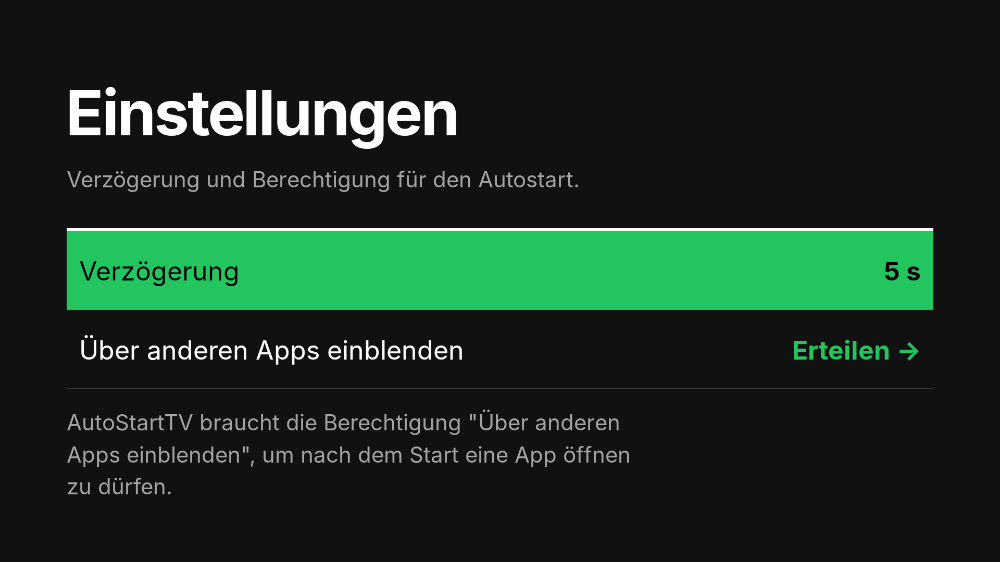
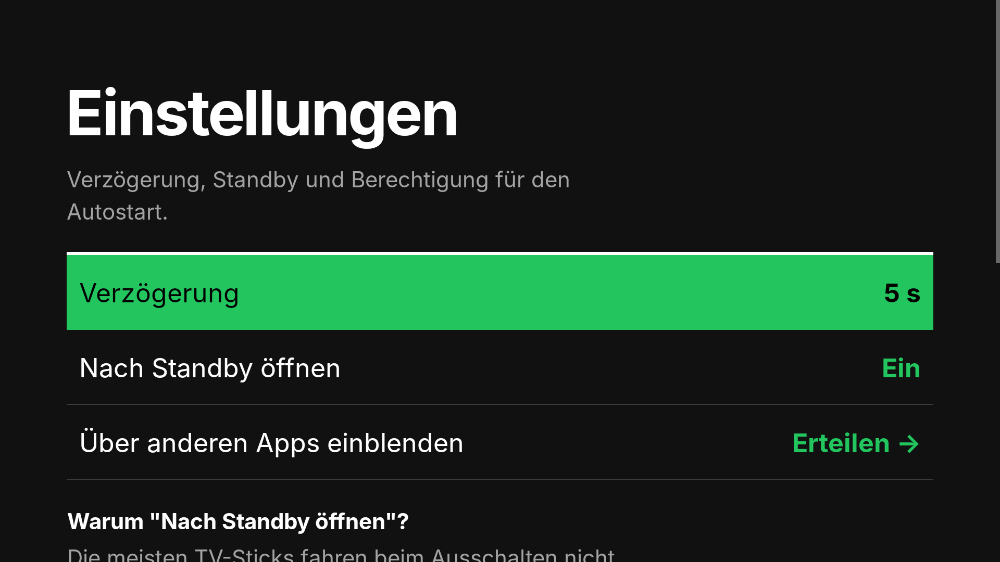
Open the app after standby, explain why in the settings
TV sticks usually go to standby instead of shutting down, so the boot
broadcast never arrives when they are switched on. A small foreground
service now listens for the screen turning on and opens the chosen app.

- New setting "Open after standby" (on by default on TVs)
- Service is started on boot, after app updates and from the app
- Settings explain standby and the overlay permission; the explanation
  blocks can be selected with the remote so the page scrolls on TVs
- Version 1.5

Claude-Session: https://claude.ai/code/session_01Mzgtb4TiVnagej2P19AmY4

diff --git a/app/src/main/java/de/autostarttv/WakeService.java b/app/src/main/java/de/autostarttv/WakeService.java
@@ -1,0 +1,149 @@
+package de.autostarttv;
+
+import android.app.Notification;
+import android.app.NotificationChannel;
+import android.app.NotificationManager;
+import android.app.Service;
+import android.content.BroadcastReceiver;
+import android.content.Context;
+import android.content.Intent;
+import android.content.IntentFilter;
+import android.content.pm.ServiceInfo;
+import android.os.Build;
+import android.os.Handler;
+import android.os.IBinder;
+import android.os.Looper;
+import android.os.SystemClock;
+import android.util.Log;
+
+/**
+ * Runs quietly in the background and opens the chosen app whenever the screen turns on,
+ * i.e. when a TV stick wakes from standby. A boot alone does not cover this, because
+ * most TV sticks never shut down: "off" only means standby.
+ *
+ * The screen-on event can only be received by a running component, hence this
+ * (minimal) foreground service.
+ */
+public class WakeService extends Service {
+
+    private static final String TAG = "AutoStartTV";
+    private static final String CHANNEL = "background";
+    private static final int NOTIFICATION_ID = 1;
+    /** Ignore screen-on events that follow each other closely. */
+    private static final long MIN_INTERVAL_MS = 10_000;
+
+    private final Handler handler = new Handler(Looper.getMainLooper());
+    private final Runnable launch = this::launchApp;
+    private long lastLaunch = -MIN_INTERVAL_MS;
+
+    private final BroadcastReceiver screenReceiver = new BroadcastReceiver() {
+        @Override
+        public void onReceive(Context context, Intent intent) {
+            if (Intent.ACTION_SCREEN_ON.equals(intent.getAction())) {
+                onScreenOn();
+            } else {
+                // Screen went off again before the delay ran out: do not launch.
+                handler.removeCallbacks(launch);
+            }
+        }
+    };
+
+    /** Starts or stops the service to match the current settings. */
+    static void sync(Context context) {
+        Settings settings = new Settings(context);
+        Intent intent = new Intent(context, WakeService.class);
+        try {
+            if (settings.isReady() && settings.isWakeEnabled()) {
+                if (Build.VERSION.SDK_INT >= 26) {
+                    context.startForegroundService(intent);
+                } else {
+                    context.startService(intent);
+                }
+            } else {
+                context.stopService(intent);
+            }
+        } catch (RuntimeException e) {
+            // Starting from the background can be refused on some Android versions.
+            Log.w(TAG, "Could not start the background service", e);
+        }
+    }
+
+    @Override
+    public void onCreate() {
+        super.onCreate();
+        startInForeground();
+        IntentFilter filter = new IntentFilter(Intent.ACTION_SCREEN_ON);
+        filter.addAction(Intent.ACTION_SCREEN_OFF);
+        registerReceiver(screenReceiver, filter);
+    }
+
+    @Override
+    public int onStartCommand(Intent intent, int flags, int startId) {
+        Settings settings = new Settings(this);
+        if (!settings.isReady() || !settings.isWakeEnabled()) {
+            stopSelf();
+            return START_NOT_STICKY;
+        }
+        return START_STICKY;
+    }
+
+    @Override
+    public void onDestroy() {
+        handler.removeCallbacks(launch);
+        unregisterReceiver(screenReceiver);
+        super.onDestroy();
+    }
+
+    @Override
+    public IBinder onBind(Intent intent) {
+        return null;
+    }
+
+    private void onScreenOn() {
+        Settings settings = new Settings(this);
+        if (!settings.isReady() || !settings.isWakeEnabled()) {
+            return;
+        }
+        handler.removeCallbacks(launch);
+        handler.postDelayed(launch, settings.getDelaySeconds() * 1000L);
+    }
+
+    private void launchApp() {
+        long now = SystemClock.elapsedRealtime();
+        if (now - lastLaunch < MIN_INTERVAL_MS) {
+            return;
+        }
+        lastLaunch = now;
+        String packageName = new Settings(this).getPackage();
+        if (!AppLauncher.launch(this, packageName)) {
+            Log.w(TAG, "Could not start " + packageName);
+        }
+    }
+
+    @SuppressWarnings("deprecation")
+    private void startInForeground() {
+        Notification.Builder builder;
+        if (Build.VERSION.SDK_INT >= 26) {
+            NotificationChannel channel = new NotificationChannel(CHANNEL,
+                    getString(R.string.notification_channel), NotificationManager.IMPORTANCE_MIN);
+            channel.setShowBadge(false);
+            getSystemService(NotificationManager.class).createNotificationChannel(channel);
+            builder = new Notification.Builder(this, CHANNEL);
+        } else {
+            builder = new Notification.Builder(this).setPriority(Notification.PRIORITY_MIN);
+        }
+        Notification notification = builder
+                .setSmallIcon(R.drawable.ic_notification)
+                .setContentTitle(getString(R.string.app_name))
+                .setContentText(getString(R.string.notification_text))
+                .setOngoing(true)
+                .setShowWhen(false)
+                .build();
+        if (Build.VERSION.SDK_INT >= 34) {
+            startForeground(NOTIFICATION_ID, notification,
+                    ServiceInfo.FOREGROUND_SERVICE_TYPE_SPECIAL_USE);
+        } else {
+            startForeground(NOTIFICATION_ID, notification);
+        }
+    }
+}

diff --git a/app/src/main/java/de/autostarttv/SettingsActivity.java b/app/src/main/java/de/autostarttv/SettingsActivity.java
@@ -9,11 +9,12 @@ import java.util.ArrayList;
 import java.util.Collections;
 import java.util.List;
 
-/** Settings page: start delay and the permission needed for autostart. */
+/** Settings page: start delay, opening after standby and the needed permission. */
 public class SettingsActivity extends Activity {
 
     private Settings settings;
     private TextView delayValue;
+    private TextView wakeValue;
     private TextView permissionValue;
 
     @Override
@@ -26,6 +27,15 @@ public class SettingsActivity extends Activity {
         ((TextView) delayRow.findViewById(R.id.row_label)).setText(R.string.delay);
         delayValue = delayRow.findViewById(R.id.row_value);
         delayRow.setOnClickListener(v -> chooseDelay());
+
+        View wakeRow = findViewById(R.id.row_wake);
+        ((TextView) wakeRow.findViewById(R.id.row_label)).setText(R.string.wake);
+        wakeValue = wakeRow.findViewById(R.id.row_value);
+        wakeRow.setOnClickListener(v -> {
+            settings.setWakeEnabled(!settings.isWakeEnabled());
+            updateWake();
+            WakeService.sync(this);
+        });
 
         View row = findViewById(R.id.row_permission);
         ((TextView) row.findViewById(R.id.row_label)).setText(R.string.permission);
@@ -40,6 +50,7 @@ public class SettingsActivity extends Activity {
     protected void onResume() {
         super.onResume();
         updateDelay();
+        updateWake();
         boolean missing = Permissions.isMissing(this);
         if (!Permissions.isNeeded()) {
             permissionValue.setText(R.string.permission_not_needed);
@@ -47,6 +58,12 @@ public class SettingsActivity extends Activity {
             permissionValue.setText(missing ? R.string.permission_missing : R.string.permission_granted);
         }
         Ui.setAccent(permissionValue, missing);
+    }
+
+    private void updateWake() {
+        boolean on = settings.isWakeEnabled();
+        wakeValue.setText(on ? R.string.on : R.string.off);
+        Ui.setAccent(wakeValue, on);
     }
 
     private void updateDelay() {

diff --git a/app/src/main/java/de/autostarttv/Settings.java b/app/src/main/java/de/autostarttv/Settings.java
@@ -12,11 +12,37 @@ final class Settings {
     private static final String KEY_ENABLED = "enabled";
     private static final String KEY_PACKAGE = "package";
     private static final String KEY_DELAY = "delay";
+    private static final String KEY_WAKE = "wake";
 
+    private final Context context;
     private final SharedPreferences prefs;
 
     Settings(Context context) {
+        this.context = context.getApplicationContext();
         prefs = context.getSharedPreferences(FILE, Context.MODE_PRIVATE);
+    }
+
+    /**
+     * Also open the app when the device wakes from standby. On by default on TVs
+     * (TV sticks usually go to standby instead of shutting down), off on phones.
+     */
+    boolean isWakeEnabled() {
+        return prefs.getBoolean(KEY_WAKE, isTv());
+    }
+
+    void setWakeEnabled(boolean enabled) {
+        prefs.edit().putBoolean(KEY_WAKE, enabled).apply();
+    }
+
+    /** True when autostart is on and an app is chosen. */
+    boolean isReady() {
+        return isEnabled() && getPackage() != null;
+    }
+
+    private boolean isTv() {
+        android.content.pm.PackageManager pm = context.getPackageManager();
+        return pm.hasSystemFeature("android.software.leanback")
+                || pm.hasSystemFeature("amazon.hardware.fire_tv");
     }
 
     boolean isEnabled() {

diff --git a/app/src/main/java/de/autostarttv/BootReceiver.java b/app/src/main/java/de/autostarttv/BootReceiver.java
@@ -8,7 +8,11 @@ import android.os.Looper;
 import android.os.SystemClock;
 import android.util.Log;
 
-/** Starts the selected app after the device has booted. */
+/**
+ * Starts the selected app after the device has booted, and starts the background
+ * service that also opens it after standby. Also runs after an app update, so the
+ * service keeps running.
+ */
 public class BootReceiver extends BroadcastReceiver {
 
     private static final String TAG = "AutoStartTV";
@@ -22,9 +26,13 @@ public class BootReceiver extends BroadcastReceiver {
         if (action == null) {
             return;
         }
+        WakeService.sync(context);
+        if (Intent.ACTION_MY_PACKAGE_REPLACED.equals(action)) {
+            return;
+        }
         Settings settings = new Settings(context);
         String packageName = settings.getPackage();
-        if (!settings.isEnabled() || packageName == null) {
+        if (!settings.isReady()) {
             return;
         }
         synchronized (BootReceiver.class) {

diff --git a/app/src/main/java/de/autostarttv/MainActivity.java b/app/src/main/java/de/autostarttv/MainActivity.java
@@ -54,6 +54,8 @@ public class MainActivity extends Activity {
     protected void onResume() {
         super.onResume();
         updateViews();
+        // Make sure the background service runs (e.g. after it was stopped by the system).
+        WakeService.sync(this);
     }
 
     private TextView setupRow(int rowId, int labelRes, View.OnClickListener click) {
@@ -78,6 +80,7 @@ public class MainActivity extends Activity {
     private void toggleEnabled() {
         settings.setEnabled(!settings.isEnabled());
         updateViews();
+        WakeService.sync(this);
     }
 
     private void chooseApp() {
@@ -112,6 +115,7 @@ public class MainActivity extends Activity {
                         settings.setPackage(apps.get(index).packageName);
                         settings.setEnabled(true);
                         updateViews();
+                        WakeService.sync(this);
                     });
         });
     }

diff --git a/README.md b/README.md
@@ -19,7 +19,19 @@ eine Spalte im Hochformat. Bedienbar mit Fernbedienung und Touch.
 3. **Autostart** steht dann auf *Ein* (umschalten mit OK).
 4. **Einstellungen →** öffnen (grün hervorgehoben, solange etwas fehlt):
    - optional **Verzögerung** einstellen (0–30 Sekunden nach dem Start),
+   - **Nach Standby öffnen** einschalten (auf Fernsehern schon an),
    - „Über anderen Apps einblenden“ erteilen.
+
+### Wann öffnet sich die App?
+
+- **Nach einem Neustart** des Geräts.
+- **Nach dem Einschalten aus dem Standby** (Option *Nach Standby öffnen*).
+  Die meisten TV-Sticks fahren beim Ausschalten nicht herunter, sondern gehen in den Standby.
+  Ein kleiner Hintergrunddienst bemerkt das Einschalten und öffnet dann die App.
+
+Wichtig: AutoStartTV nach der Installation **einmal öffnen** – vorher führt Android
+den Autostart nicht aus. Ab Android 10 ist außerdem „Über anderen Apps einblenden“
+nötig, weil Apps aus dem Hintergrund sonst keine anderen Apps öffnen dürfen.
 
 Feedback: **Feedback ↗** öffnet die E-Mail-App an feedback@maltethier.de mit dem Betreff „Feedback AutoStartTV“.
    Ab Android 10 darf eine App nur mit dieser Berechtigung andere Apps im Hintergrund starten.
